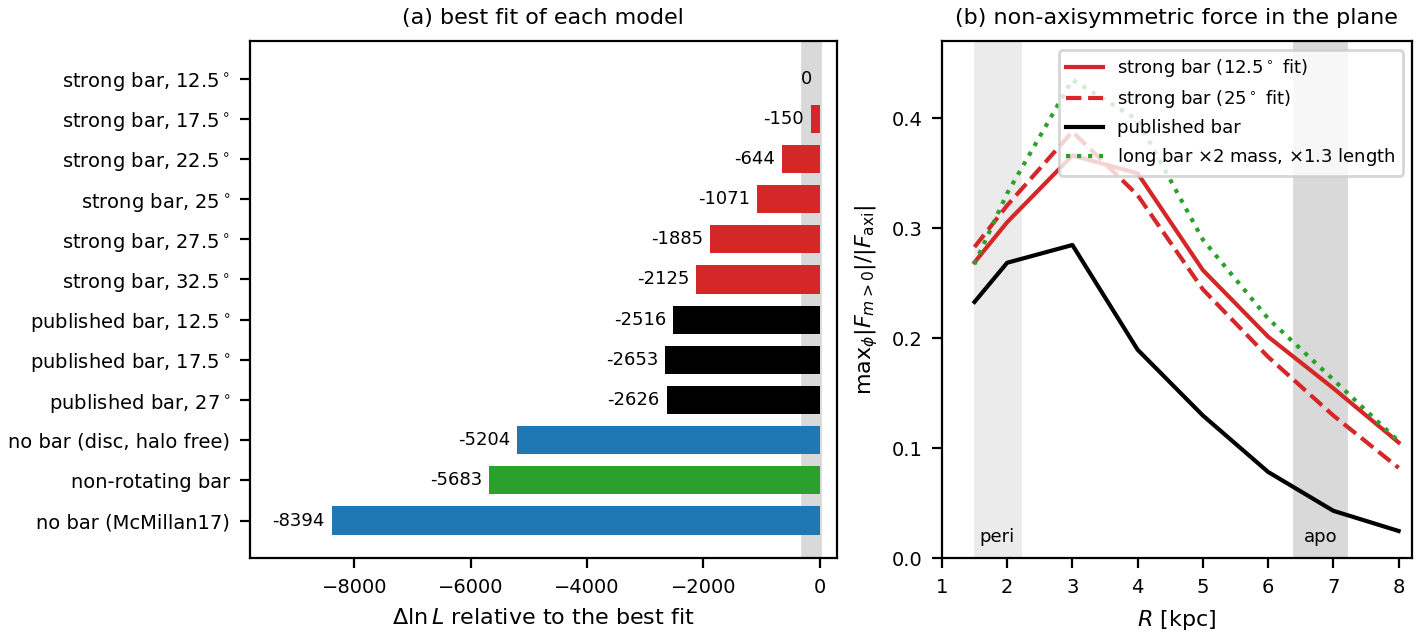
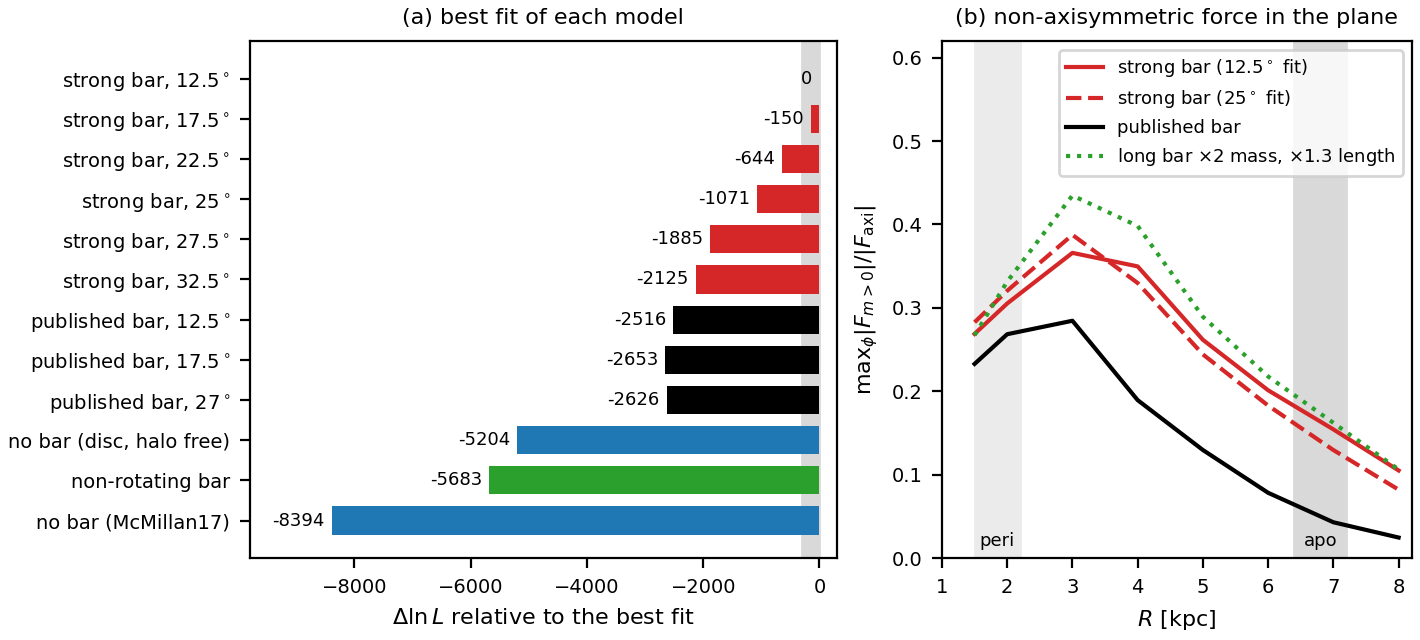
Note Fig. 2b: y range 0-0.62 so the legend clears the curves

diff --git a/bin/streams/note_ladder_figure.py b/bin/streams/note_ladder_figure.py
@@ -48,7 +48,7 @@ def main():
         ax[1].plot(R, pr[key]["z0"], st, lw=1.5, label=lab)
     ax[1].axvspan(1.5, 2.2, color="0.92"); ax[1].axvspan(6.4, 7.2, color="0.85")
     ax[1].text(1.85, 0.015, "peri", ha="center", fontsize=6.5); ax[1].text(6.8, 0.015, "apo", ha="center", fontsize=6.5)
-    ax[1].set(ylim=(0, 0.47), xlim=(1, 8.2)); ax[1].tick_params(labelsize=7)
+    ax[1].set(ylim=(0, 0.62), xlim=(1, 8.2)); ax[1].tick_params(labelsize=7)
     ax[1].set_xlabel(r"$R$ [kpc]", fontsize=8); ax[1].set_ylabel(r"max$_\phi |F_{m>0}|/|F_{\rm axi}|$", fontsize=8)
     ax[1].set_title("(b) non-axisymmetric force in the plane", fontsize=8); ax[1].legend(fontsize=6.5, loc="upper right")
     for ext in ("png", "pdf"):
